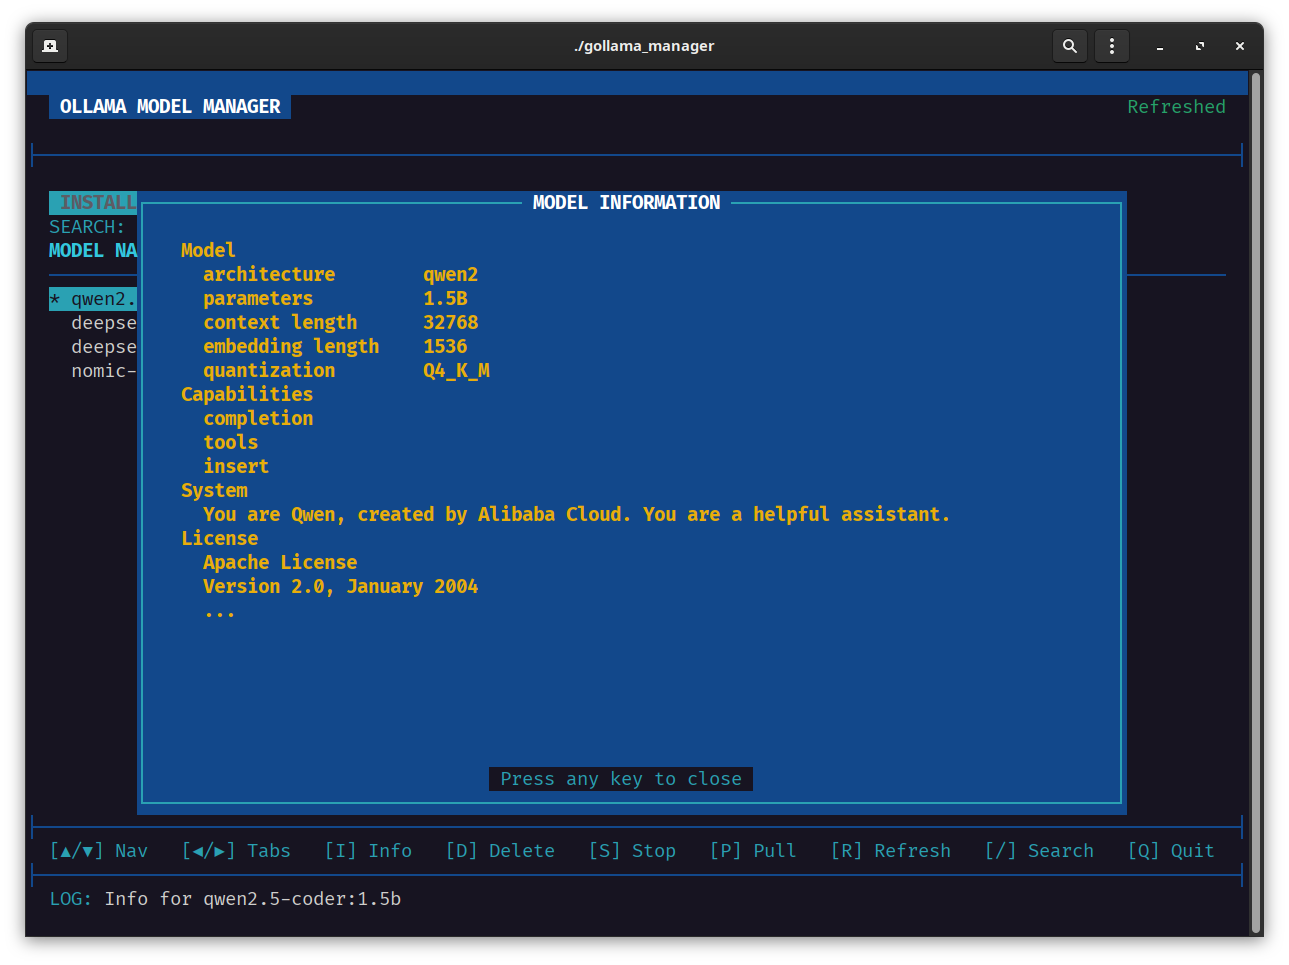
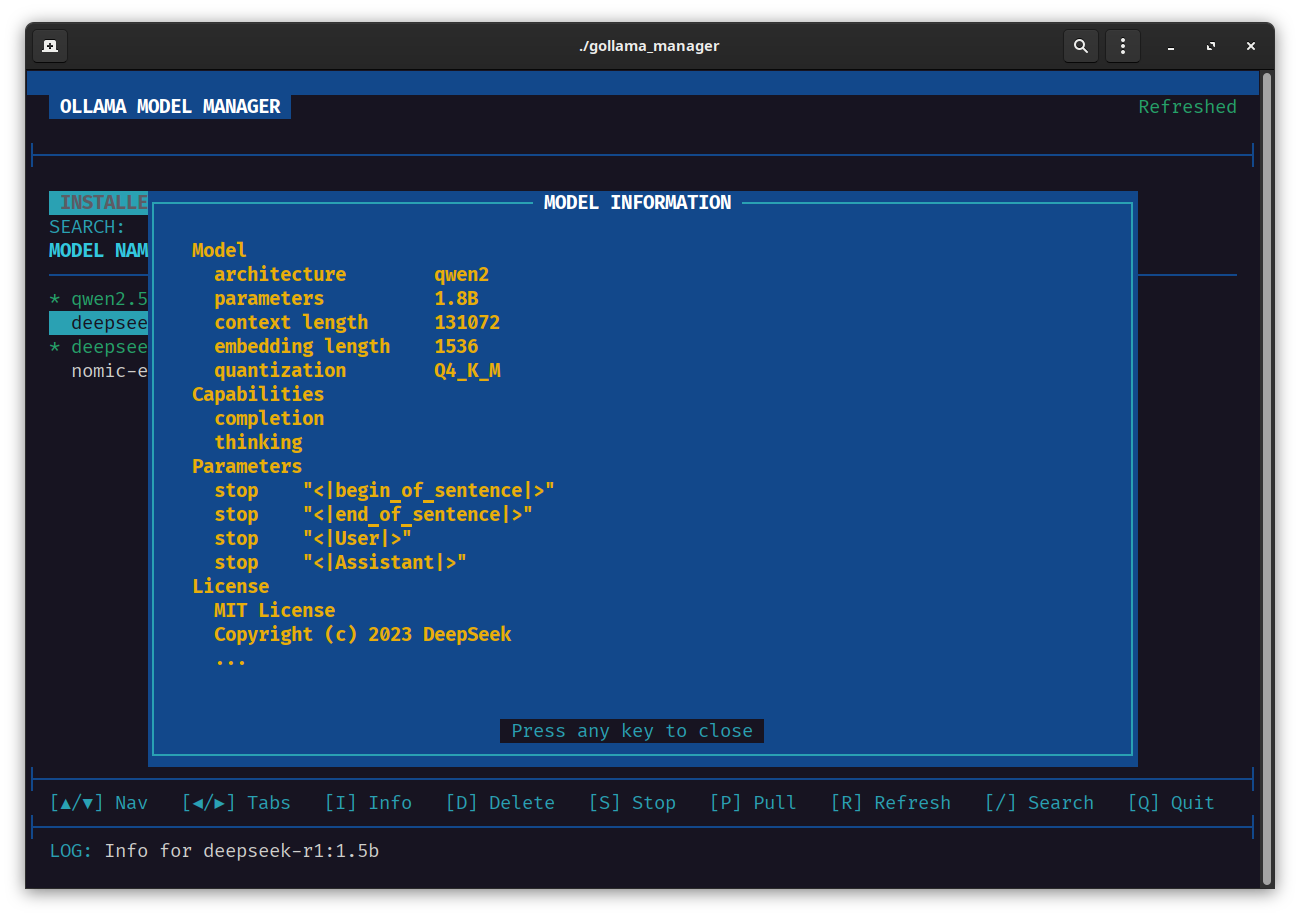
feat(main): Add sanitizer for fullwidth CJK characters in model info display

Changed region(s): [[0.0, 0.0305, 0.993, 0.9466], [0.962, 0.9466, 0.993, 0.9771]]

diff --git a/gollama_manager.c b/gollama_manager.c
@@ -179,6 +179,146 @@ static char *str_case_str(const char *haystack, //
     return NULL;
 }
 
+// -----------------------------------------------------------------------------
+// Unicode Sanitizer for Fullwidth Characters (Info Dialog)
+// -----------------------------------------------------------------------------
+
+/**
+ * @brief Convert a fullwidth character (U+FF00–U+FFEF) to its halfwidth ASCII equivalent.
+ * @param cp Unicode codepoint.
+ * @return Converted codepoint, or original if not in fullwidth range.
+ */
+static uint32_t fullwidth_to_halfwidth(uint32_t cp) {
+    // Fullwidth ! " # $ % & ' ( ) * + , - . / 0-9 : ; < = > ? @ A-Z [ \ ] ^ _ ` a-z { | } ~
+    if (cp >= 0xFF01 && cp <= 0xFF5E) {
+        return cp - 0xFF01 + 0x21;
+    }
+    // Specific override for U+FF5C (fullwidth vertical bar) – ensure it becomes '|'
+    if (cp == 0xFF5C) {
+        return '|';
+    }
+    // Fullwidth cent, pound, etc. (optional)
+    if (cp == 0xFFE0)
+        return 0xA2; // cent
+    if (cp == 0xFFE1)
+        return 0xA3; // pound
+    if (cp == 0xFFE5)
+        return 0xA5; // yen
+    // Everything else stays as is
+    return cp;
+}
+
+/**
+ * @brief Decode one UTF-8 character and return its Unicode codepoint.
+ *
+ * @param s Pointer to UTF-8 string.
+ * @param len Number of bytes consumed (output).
+ * @return Unicode codepoint, or 0xFFFD on error.
+ */
+static uint32_t utf8_decode(const char *s, int *len) {
+    unsigned char c = (unsigned char)s[0];
+
+    if (c < 0x80) {
+        *len = 1;
+        return c;
+    }
+
+    if ((c & 0xE0) == 0xC0 && //
+        (s[1] & 0xC0) == 0x80) {
+        *len = 2;
+        return ((c & 0x1F) << 6) | (s[1] & 0x3F);
+    }
+
+    if ((c & 0xF0) == 0xE0 &&    //
+        (s[1] & 0xC0) == 0x80 && //
+        (s[2] & 0xC0) == 0x80) {
+        *len = 3;
+        return ((c & 0x0F) << 12) | ((s[1] & 0x3F) << 6) | (s[2] & 0x3F);
+    }
+
+    if ((c & 0xF8) == 0xF0 &&    //
+        (s[1] & 0xC0) == 0x80 && //
+        (s[2] & 0xC0) == 0x80 && //
+        (s[3] & 0xC0) == 0x80) {
+        *len = 4;
+        return ((c & 0x07) << 18) | ((s[1] & 0x3F) << 12) | ((s[2] & 0x3F) << 6) | (s[3] & 0x3F);
+    }
+
+    *len = 1;
+    return 0xFFFD; // replacement character
+}
+
+/**
+ * @brief Encode a Unicode codepoint as UTF-8.
+ *
+ * @param cp Codepoint.
+ * @param buf Output buffer (at least 4 bytes).
+ * @return Number of bytes written.
+ */
+static int utf8_encode(uint32_t cp, char *buf) {
+    if (cp < 0x80) {
+        buf[0] = (char)cp;
+        return 1;
+    }
+
+    if (cp < 0x800) {
+        buf[0] = (char)(0xC0 | (cp >> 6));
+        buf[1] = (char)(0x80 | (cp & 0x3F));
+        return 2;
+    }
+
+    if (cp < 0x10000) {
+        buf[0] = (char)(0xE0 | (cp >> 12));
+        buf[1] = (char)(0x80 | ((cp >> 6) & 0x3F));
+        buf[2] = (char)(0x80 | (cp & 0x3F));
+        return 3;
+    }
+
+    buf[0] = (char)(0xF0 | (cp >> 18));
+    buf[1] = (char)(0x80 | ((cp >> 12) & 0x3F));
+    buf[2] = (char)(0x80 | ((cp >> 6) & 0x3F));
+    buf[3] = (char)(0x80 | (cp & 0x3F));
+    return 4;
+}
+
+/**
+ * @brief Sanitize a UTF-8 string: convert fullwidth characters to halfwidth.
+ * @param dst Output buffer.
+ * @param src Input string.
+ * @param dst_size Size of output buffer.
+ */
+static void sanitize_fullwidth(char *dst, const char *src, size_t dst_size) {
+    size_t di = 0;
+
+    while (*src && di < dst_size - 4) { // room for worst-case 4 bytes
+        int len;
+
+        uint32_t cp = utf8_decode(src, &len);
+        if (cp == 0xFFFD) {
+            // invalid sequence: copy raw byte as '?'
+            dst[di++] = '?';
+            src++;
+            continue;
+        }
+
+        uint32_t converted = fullwidth_to_halfwidth(cp);
+        if (converted != cp) {
+            char buf[4];
+            int  n = utf8_encode(converted, buf);
+            for (int i = 0; i < n && di < dst_size - 1; i++) {
+                dst[di++] = buf[i];
+            }
+        } else {
+            // keep original UTF-8 bytes
+            for (int i = 0; i < len && di < dst_size - 1; i++) {
+                dst[di++] = src[i];
+            }
+        }
+        src += len;
+    }
+    dst[di] = '\0';
+}
+
 /**
  * @brief Change current working directory to root ("/")
  *
@@ -1070,18 +1210,19 @@ static void draw_content(void) {
 
 /**
  * @brief Draw the model information dialog.
+ *
+ * This function now sanitizes each line to replace fullwidth characters
+ * (e.g., U+FF5C '｜') with their ASCII equivalents.
  */
 static void draw_info_dialog(void) {
     int w = (cols - 4 < 90) ? cols - 4 : 90;
     if (w < 40)
         w = 40;
-
     int h = rows - 10;
     if (h > 30)
         h = 30;
     if (h < 10)
         h = 10;
-
     int sy = (rows - h) / 2;
     int sx = (cols - w) / 2;
 
@@ -1090,11 +1231,12 @@ static void draw_info_dialog(void) {
     attron(COLOR_PAIR(CP_INFO_TEXT) | A_BOLD);
     int   row  = sy + 2;
     char *line = strtok(st.info_out, "\n");
-
     while (line && row < sy + h - 2) {
         char disp[w - 4];
+        char sanitized[w - 4];
         snprintf(disp, sizeof(disp), "%s", line);
-        mvprintw(row, sx + 2, "%s", disp);
+        sanitize_fullwidth(sanitized, disp, sizeof(sanitized));
+        mvprintw(row, sx + 2, "%s", sanitized);
         row++;
         line = strtok(NULL, "\n");
     }

diff --git a/README.md b/README.md
@@ -31,7 +31,7 @@ A terminal-based user interface (TUI) for managing Ollama models. Built with C a
 - Linux operating system
 - GCC compiler
 - CMake (3.10 or higher)
-- ncurses library
+- ncursesw library (wide-character version)
 - pthread library
 - Ollama installed and available in PATH
 
@@ -105,6 +105,9 @@ gollama_manager
 - **ESC** - Cancel dialog
 - **TAB** - Toggle between OK/Cancel in confirmation dialogs
 - **LEFT/RIGHT** - Navigate between OK/Cancel in confirmation dialogs
+- **HOME/END** - Jump to start/end of input field
+- **DELETE** - Delete character at cursor position
+- **INSERT** - Toggle insert/overwrite mode
 
 ## Building from Source
 
@@ -135,7 +138,7 @@ gollama_manager
 ## Technical Details
 
 - **Language**: C
-- **UI Framework**: ncurses
+- **UI Framework**: ncursesw
 - **Threading**: pthread
 - **Build System**: CMake
 - **Compiler**: GCC with strict warnings enabled
@@ -160,14 +163,14 @@ Ensure Ollama is installed and available in your PATH:
 ollama --version
 ```
 
-### ncurses not found
-Install ncurses development library:
+### ncursesw not found
+Install ncursesw development library (wide-character version for UTF-8 support):
 ```bash
 # Arch Linux
-sudo pacman -S ncurses
+sudo pacman -S ncursesw
 
 # Ubuntu/Debian
-sudo apt-get install libncurses-dev
+sudo apt-get install libncursesw5-dev
 
 # Fedora/RHEL
 sudo dnf install ncurses-devel